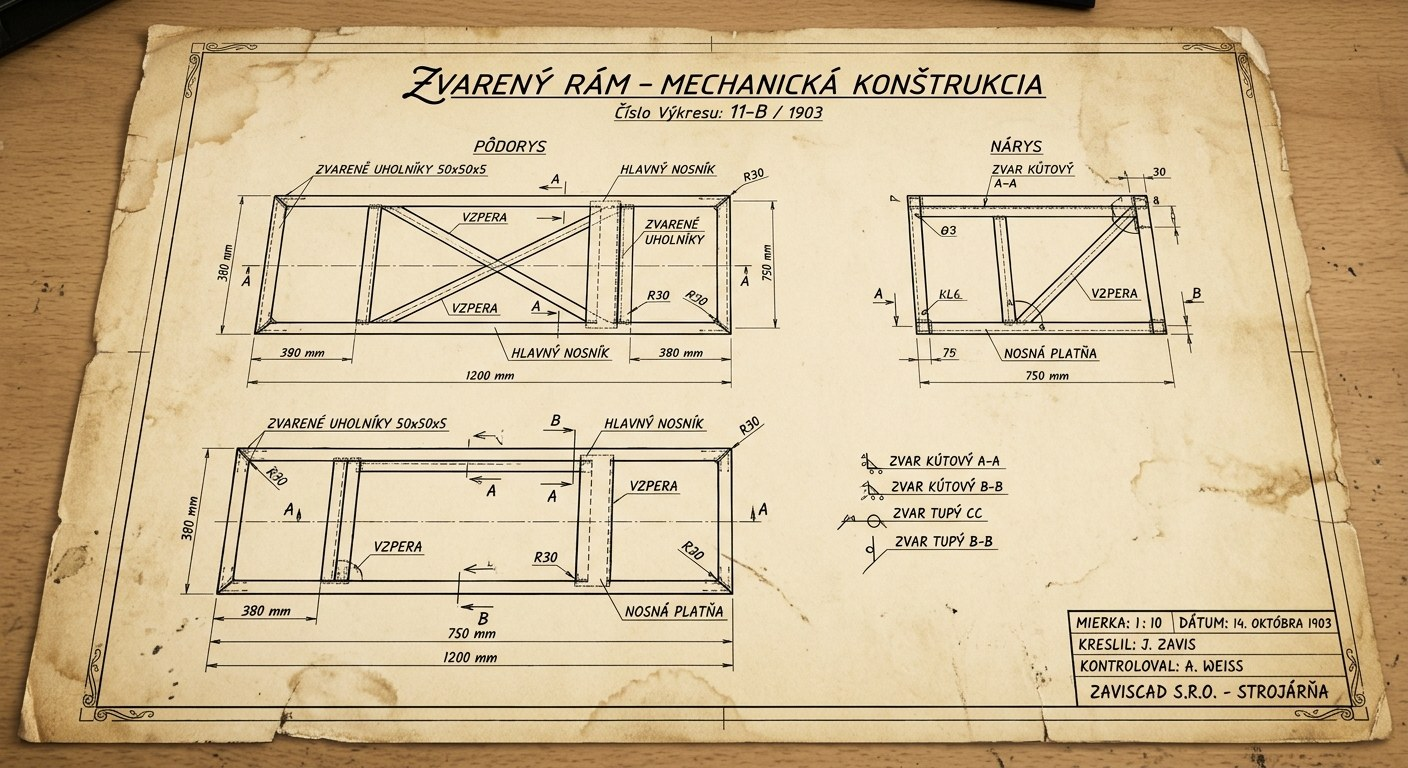
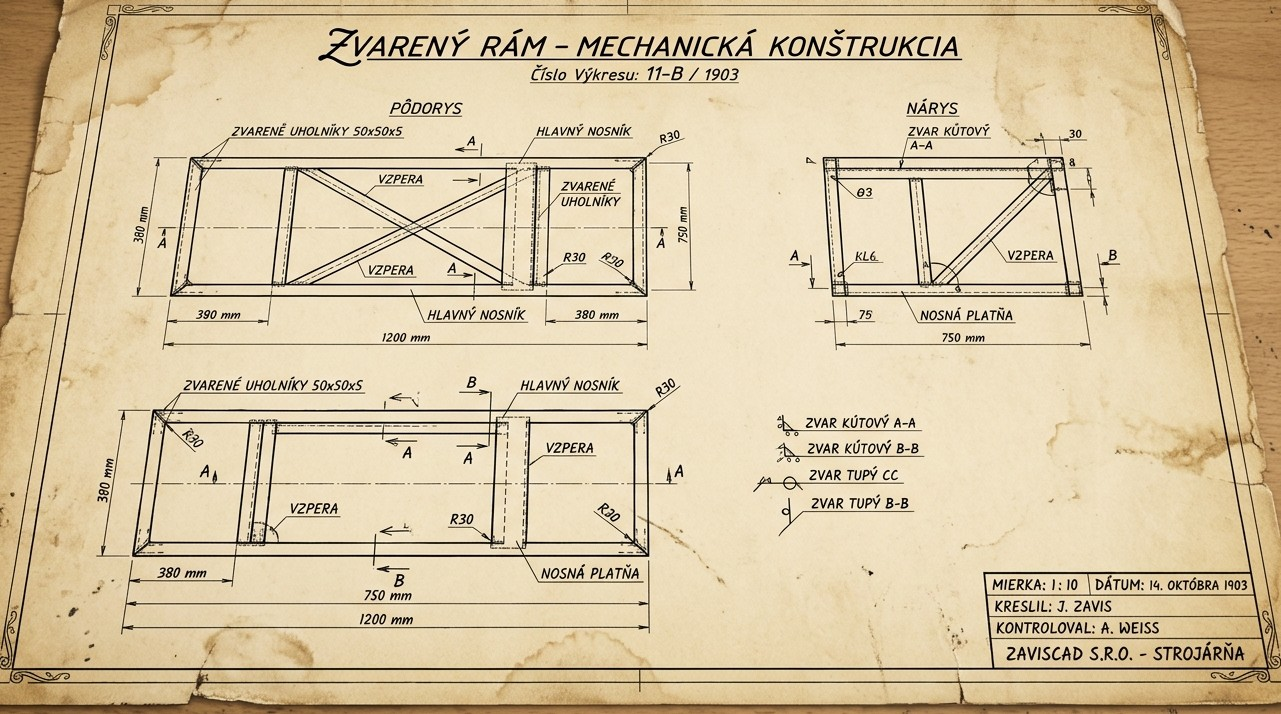
140926 ZA3
odstránené biele pozadie z oboch dielov (jednotlivci) — teraz plávajú na pozadí karty
Kozlik CAD výkres prerobený na "modrotlačový" efekt (čiary na tmavom pozadí), orezaný na hlavné pohľady
starý výkres tesnejšie orezaný

diff --git a/index.html b/index.html
@@ -245,6 +245,7 @@
   }
   .illust-card svg{width:100%; height:100%; flex:1;}
   .illust-card img{width:100%; height:100%; flex:1; object-fit:contain; object-position:center; display:block; padding:10px; box-sizing:border-box;}
+  .illust-card img.cover{ object-fit:cover; padding:0; }
   .illust-card .illust-label{
     position:absolute; top:10px; left:10px;
     font-family:'JetBrains Mono', monospace; font-size:10px;
@@ -431,7 +432,7 @@
       <!-- real photo: original part to be redesigned -->
       <div class="illust-card photo">
         <span class="illust-label" data-i18n="illust_a_photo_label">PRED</span>
-        <img src="diel-povodny.jpg" alt="Pôvodný diel na prekreslenie">
+        <img src="diel-povodny.png" alt="Pôvodný diel na prekreslenie">
       </div>
 
       <div class="illust-arrow">
@@ -442,7 +443,7 @@
       <div class="illust-card cad">
         <span class="illust-label" data-i18n="illust_a_cad_label">3D NÁVRH</span>
         <div class="cad-chrome"><span></span><span></span><span></span></div>
-        <img src="diel-3d-navrh.jpg" alt="3D CAD návrh dielu">
+        <img src="diel-3d-navrh.png" alt="3D CAD návrh dielu">
       </div>
     </div>
 
@@ -474,7 +475,7 @@
       <!-- real photo: old/legacy documentation -->
       <div class="illust-card photo">
         <span class="illust-label" data-i18n="illust_b_photo_label">STARÝ VÝKRES</span>
-        <img src="vykres-stary.jpg" alt="Stará technická dokumentácia">
+        <img src="vykres-stary.jpg" alt="Stará technická dokumentácia" class="cover">
       </div>
 
       <div class="illust-arrow">
@@ -485,7 +486,7 @@
       <div class="illust-card cad">
         <span class="illust-label" data-i18n="illust_b_cad_label">PRESNÝ CAD VÝKRES</span>
         <div class="cad-chrome"><span></span><span></span><span></span></div>
-        <img src="vykres-novy.jpg" alt="Presný CAD výkres">
+        <img src="vykres-novy.png" alt="Presný CAD výkres">
       </div>
     </div>
 
